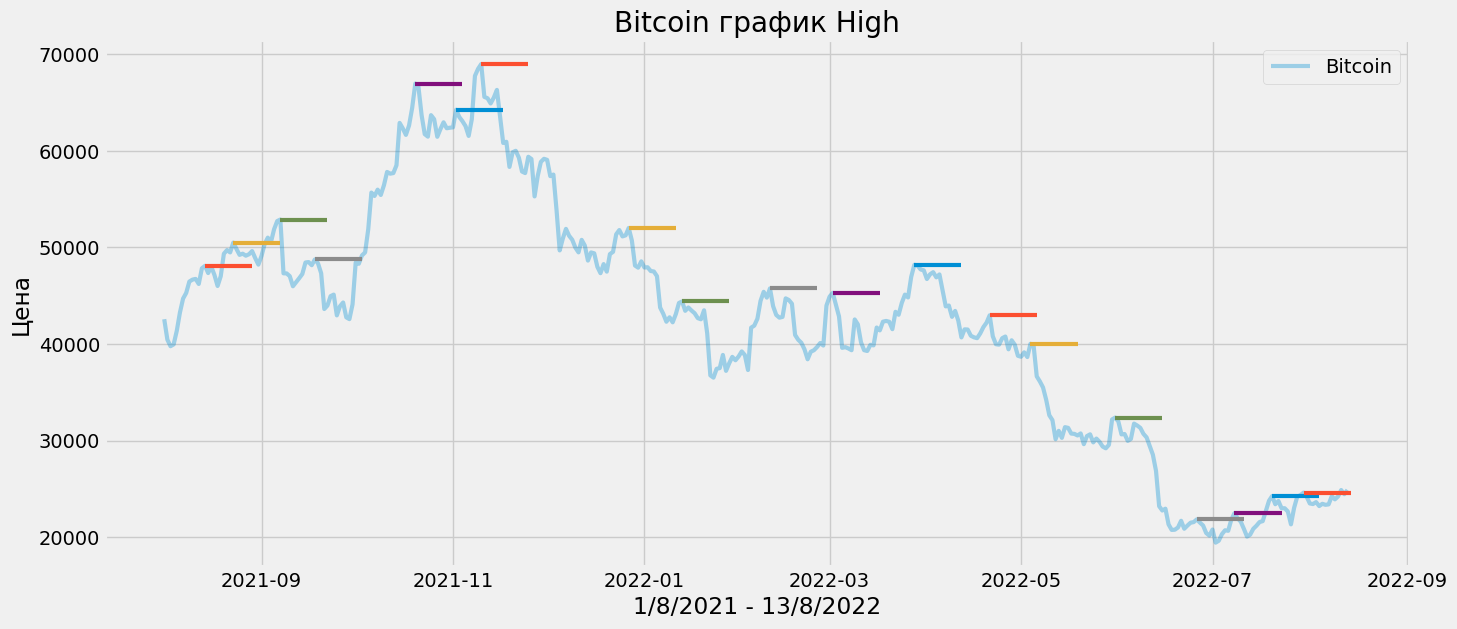
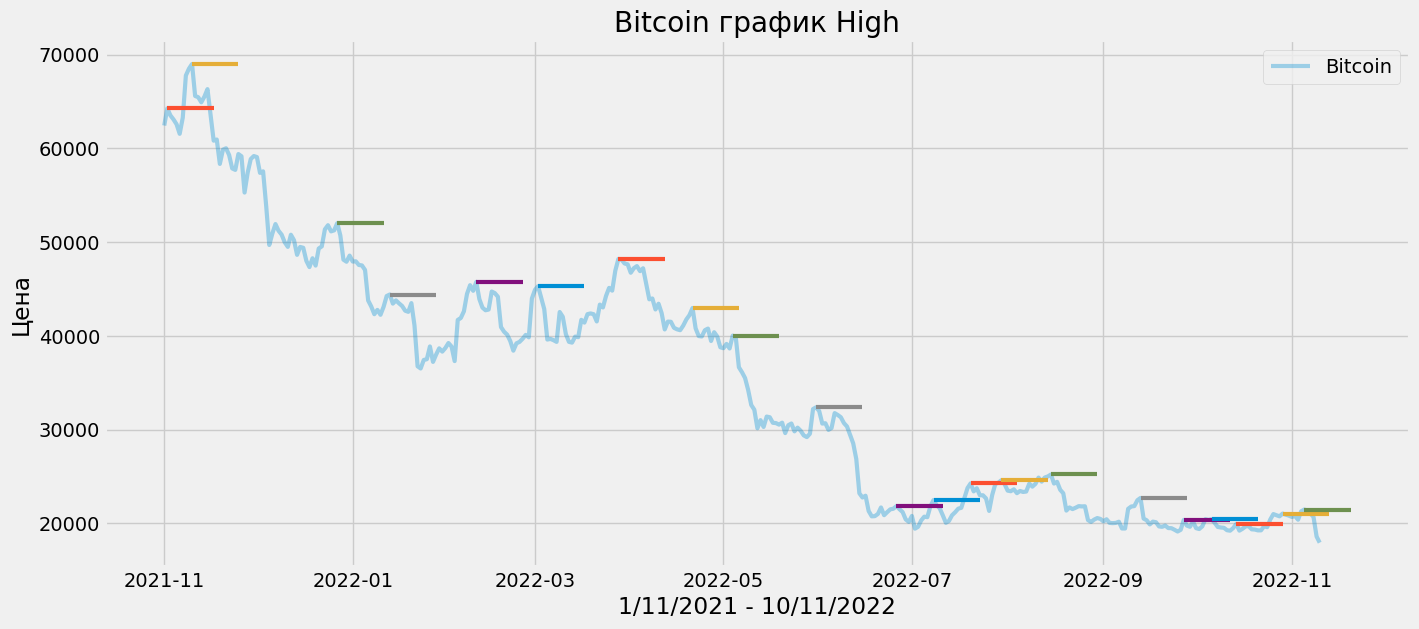
Дополнил описание

diff --git a/README.md b/README.md
@@ -7,8 +7,8 @@
 На выбранные криптовалюты можно узнать:
 
 - прогноз цен **на ближайшие 2 недели**;
-- уровни "_Low_" поддержки (с наглядной отрисовкой графика);
-- уровни "_High_" поддержки (с наглядной отрисовкой графика).
+- уровни "_Low_" поддержки (с наглядной отрисовкой графика за последний год. Если есть данные);
+- уровни "_High_" поддержки (с наглядной отрисовкой графика за последний год. Если есть данные).
 
 > Уровни поддержки нужны для того, чтобы принять верное решение по покупке \ продаже.
 
@@ -18,3 +18,93 @@
 Вот наглядный пример, что из себя представляет бот:
 
 ![TG_CryptoBot](_assets/TG-BOT.gif)
+
+## Используемые технологии
+
+- investpy = Для получения исторических данных цен по криптовалютам
+- pandas = Для работы с историческими данными
+- beatifulsoup4 = Для парсинга предиктовых цен на криптовалюты
+- python-telegram-bot = Для работы с телеграм в качестве бота (рассылка сообщений, графиков)
+- matplotlib = Для отрисовки графиков цен на криптовалюты в годовом отрезке
+- sqlite3 = Для хранения списка криптовалют и избранных криптовалют у пользователей
+
+Пример отриковки графиков Low уровней цен.
+
+![Low Price](_assets/Graph.png)
+
+## Подготовка к запуску
+
+Перед запуском, нужно подготовить специальный файл `.env` (переменные виртуального окружения).
+
+В этом файле будет храниться две **обязательные** переменные (Токен и ID чата).
+
+Создайте файл `.env`, заполните переменные и поместите файл в директорию `config/`
+
+```
+TOKEN=<Токен вашего телеграм бота>
+CHAT_ID=<Чат, в который бот присылать графики (вы сами)>
+```
+
+## Запуск
+
+### Стандартный запуск
+
+Когда подготовительные работы завершены, можно приступать к запуску.
+
+Для начала, создайте виртуальное окружение:
+
+```bash
+python -m venv venv
+```
+
+И установите все необходимые зависимости проекта:
+
+```bash
+pip install -r requirements.txt
+```
+
+Теперь можно запускать проект:
+
+```bash
+python main.py
+```
+
+Осталось только перейти в телеграм и использовать бота по назначению.
+
+Пример графика Low уровней, который пришлёт бот на запрос уровней:
+
+![Low level graph](predict_stock_crypto/img/Low.png)
+
+### Запуск с помощью Docker
+
+Проект так же настроен для запуска и в Docker
+
+> У вас должен быть установлен docker и docker-compose
+> Так же убедитесь, что сам докер запущен: `sudo systemctl status docker`
+
+Сборка и запуск в Docker командой:
+
+```bash
+docker-compose up --build
+```
+
+Если всё сделанно верно, то вас будет встречать:
+
+![Docker](_assets/Docker-done.png)
+
+Можете пользоваться ботом.
+
+## Дополнительный функционал
+
+В проекте реализован GitHub Actions (Workflow) ('.github/worflows/main.yml').
+Вы можете использовать его и в своём проекте при клонировании этого репозитория.
+
+Активируется при отправке изменений на GiHub репозиторий (git push)
+
+GitHub Actions состоит из 3-х jobs:
+
+- formatting_and_test = Проверка кода Линтером (flake8) и форматтером (black), и проведение Unittest тестирования.
+- build_and_push_to_docker_hub = Сборка и публикация образа на DockerHub
+  (для этого нужно добавить DOCKER_USERNAME, DOCKER_PASSWORD и NAME_REPO в файл '.env')
+- deploy = загрузка образа на сервер и его активация
+  (этот job отключен, но вы можете ознакомиться самостоятельно ознакомиться с его настройками в файле '.github/worflows/main.yml')
